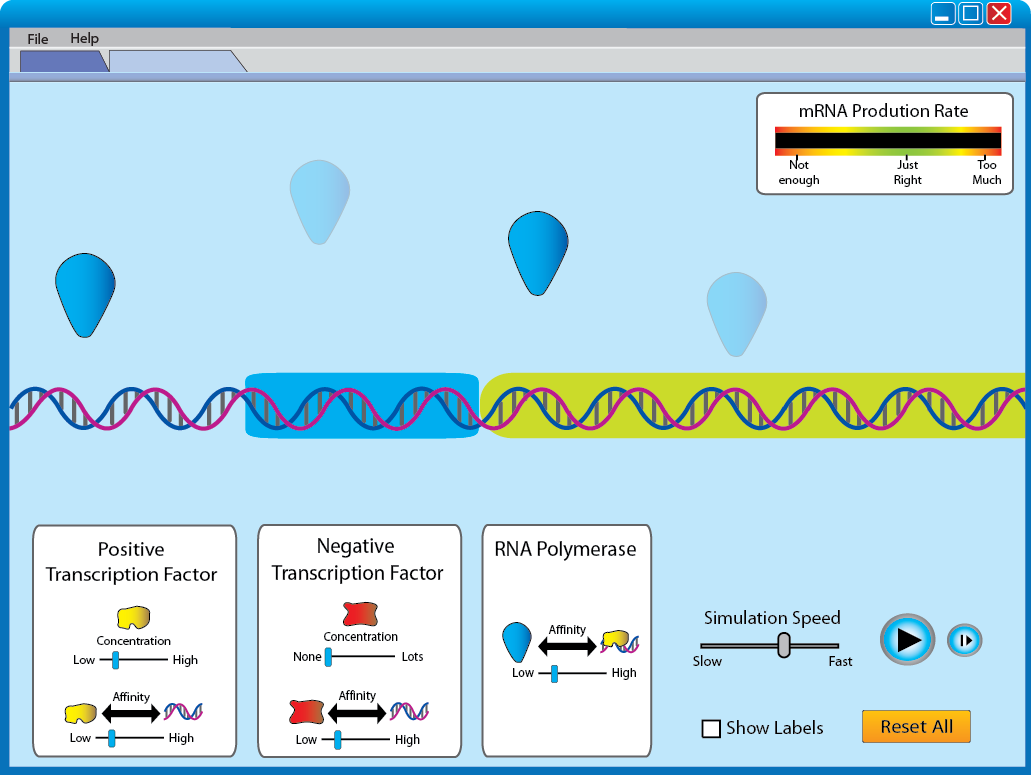
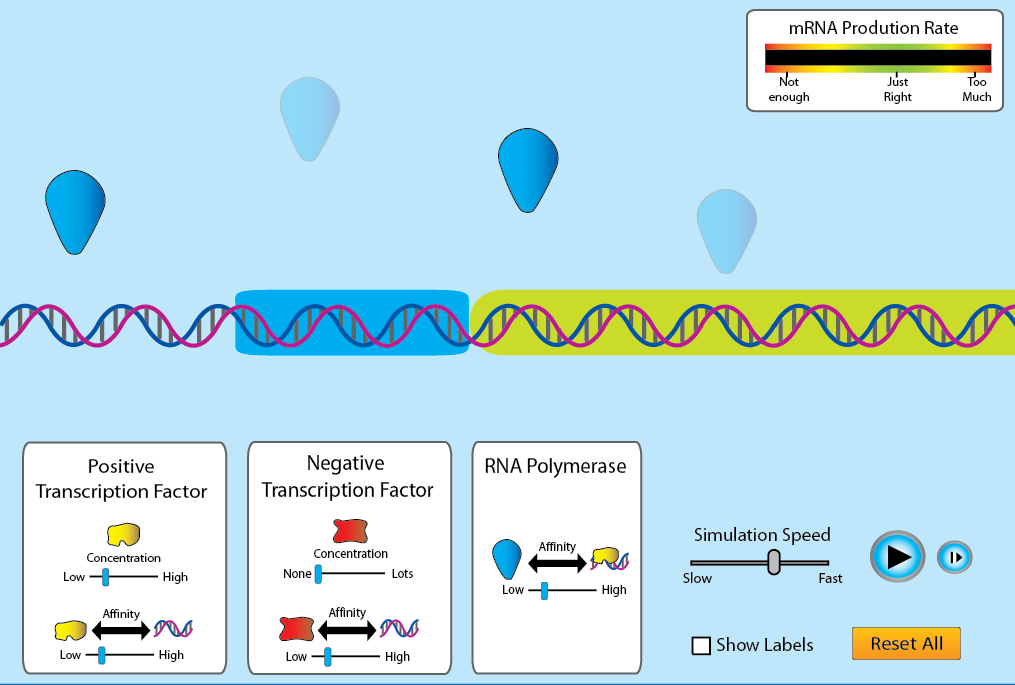
Reinstated the 2nd tab and put a new drawing on it that represents a revised design.

diff --git a/simulations-java/simulations/gene-expression-basics/src/edu/colorado/phet/geneexpressionbasics/GeneExpressionBasicsResources.java b/simulations-java/simulations/gene-expression-basics/src/edu/colorado/phet/geneexpressionbasics/GeneExpressionBasicsResources.java
@@ -10,8 +10,8 @@ import edu.colorado.phet.common.phetcommon.resources.PhetResources;
  * Automatically generated by edu.colorado.phet.buildtools.preprocessor.ResourceGenerator
  */
 public class GeneExpressionBasicsResources {
-    public static final String NAME = "gene-expression-basics";
-    public static final PhetResources RESOURCES = new PhetResources( NAME );
+    public static final String PROJECT_NAME = "gene-expression-basics";
+    public static final PhetResources RESOURCES = new PhetResources( PROJECT_NAME );
 
     //Strings
     public static class Strings {
@@ -23,6 +23,7 @@ public class GeneExpressionBasicsResources {
         public static final BufferedImage ECOLI = RESOURCES.getImage( "ecoli.jpg" );
         public static final BufferedImage ECOLI_IMAGE = RESOURCES.getImage( "ecoli_image.gif" );
         public static final BufferedImage GRAY_ARROW = RESOURCES.getImage( "gray-arrow.png" );
+        public static final BufferedImage SECOND_TAB_STATIC_PICTURE_VERSION_2 = RESOURCES.getImage( "second-tab-static-picture-version-2.png" );
         public static final BufferedImage SECOND_TAB_STATIC_PICTURE = RESOURCES.getImage( "second-tab-static-picture.png" );
     }
 }

diff --git a/simulations-java/simulations/gene-expression-basics/src/edu/colorado/phet/geneexpressionbasics/GeneExpressionBasicsApplication.java b/simulations-java/simulations/gene-expression-basics/src/edu/colorado/phet/geneexpressionbasics/GeneExpressionBasicsApplication.java
@@ -7,6 +7,7 @@ import edu.colorado.phet.common.phetcommon.resources.PhetResources;
 import edu.colorado.phet.common.piccolophet.PiccoloPhetApplication;
 import edu.colorado.phet.geneexpressionbasics.manualgeneexpression.ManualGeneExpressionModule;
 import edu.colorado.phet.geneexpressionbasics.multiplecells.MultipleCellsModule;
+import edu.colorado.phet.geneexpressionbasics.proteinlevelsincell.ProteinLevelsInCellModule;
 
 /**
  * Main application class for this simulation.
@@ -29,7 +30,7 @@ public class GeneExpressionBasicsApplication extends PiccoloPhetApplication {
 
         // module(s)
         addModule( new ManualGeneExpressionModule( "Cell Gene Expression" ) );
-//        addModule( new ProteinLevelsInCellModule( "Cell Protein Levels" ) );
+        addModule( new ProteinLevelsInCellModule( "Cell Protein Levels" ) );
         addModule( new MultipleCellsModule( "Multiple Cells", getPhetFrame() ) );
     }
 

diff --git a/simulations-java/simulations/gene-expression-basics/src/edu/colorado/phet/geneexpressionbasics/proteinlevelsincell/view/ProteinLevelsInCellCanvas.java b/simulations-java/simulations/gene-expression-basics/src/edu/colorado/phet/geneexpressionbasics/proteinlevelsincell/view/ProteinLevelsInCellCanvas.java
@@ -52,7 +52,7 @@ public class ProteinLevelsInCellCanvas extends PhetPCanvas implements Resettable
         setBackground( new Color( 190, 231, 251 ) );
 
         // TODO: Temp - put up a drawing of the way this tab will ultimately look.
-        PNode screenImage = new PImage( GeneExpressionBasicsResources.Images.SECOND_TAB_STATIC_PICTURE );
+        PNode screenImage = new PImage( GeneExpressionBasicsResources.Images.SECOND_TAB_STATIC_PICTURE_VERSION_2 );
         screenImage.scale( STAGE_SIZE.getWidth() / screenImage.getFullBoundsReference().getWidth() );
         addWorldChild( screenImage );
 
